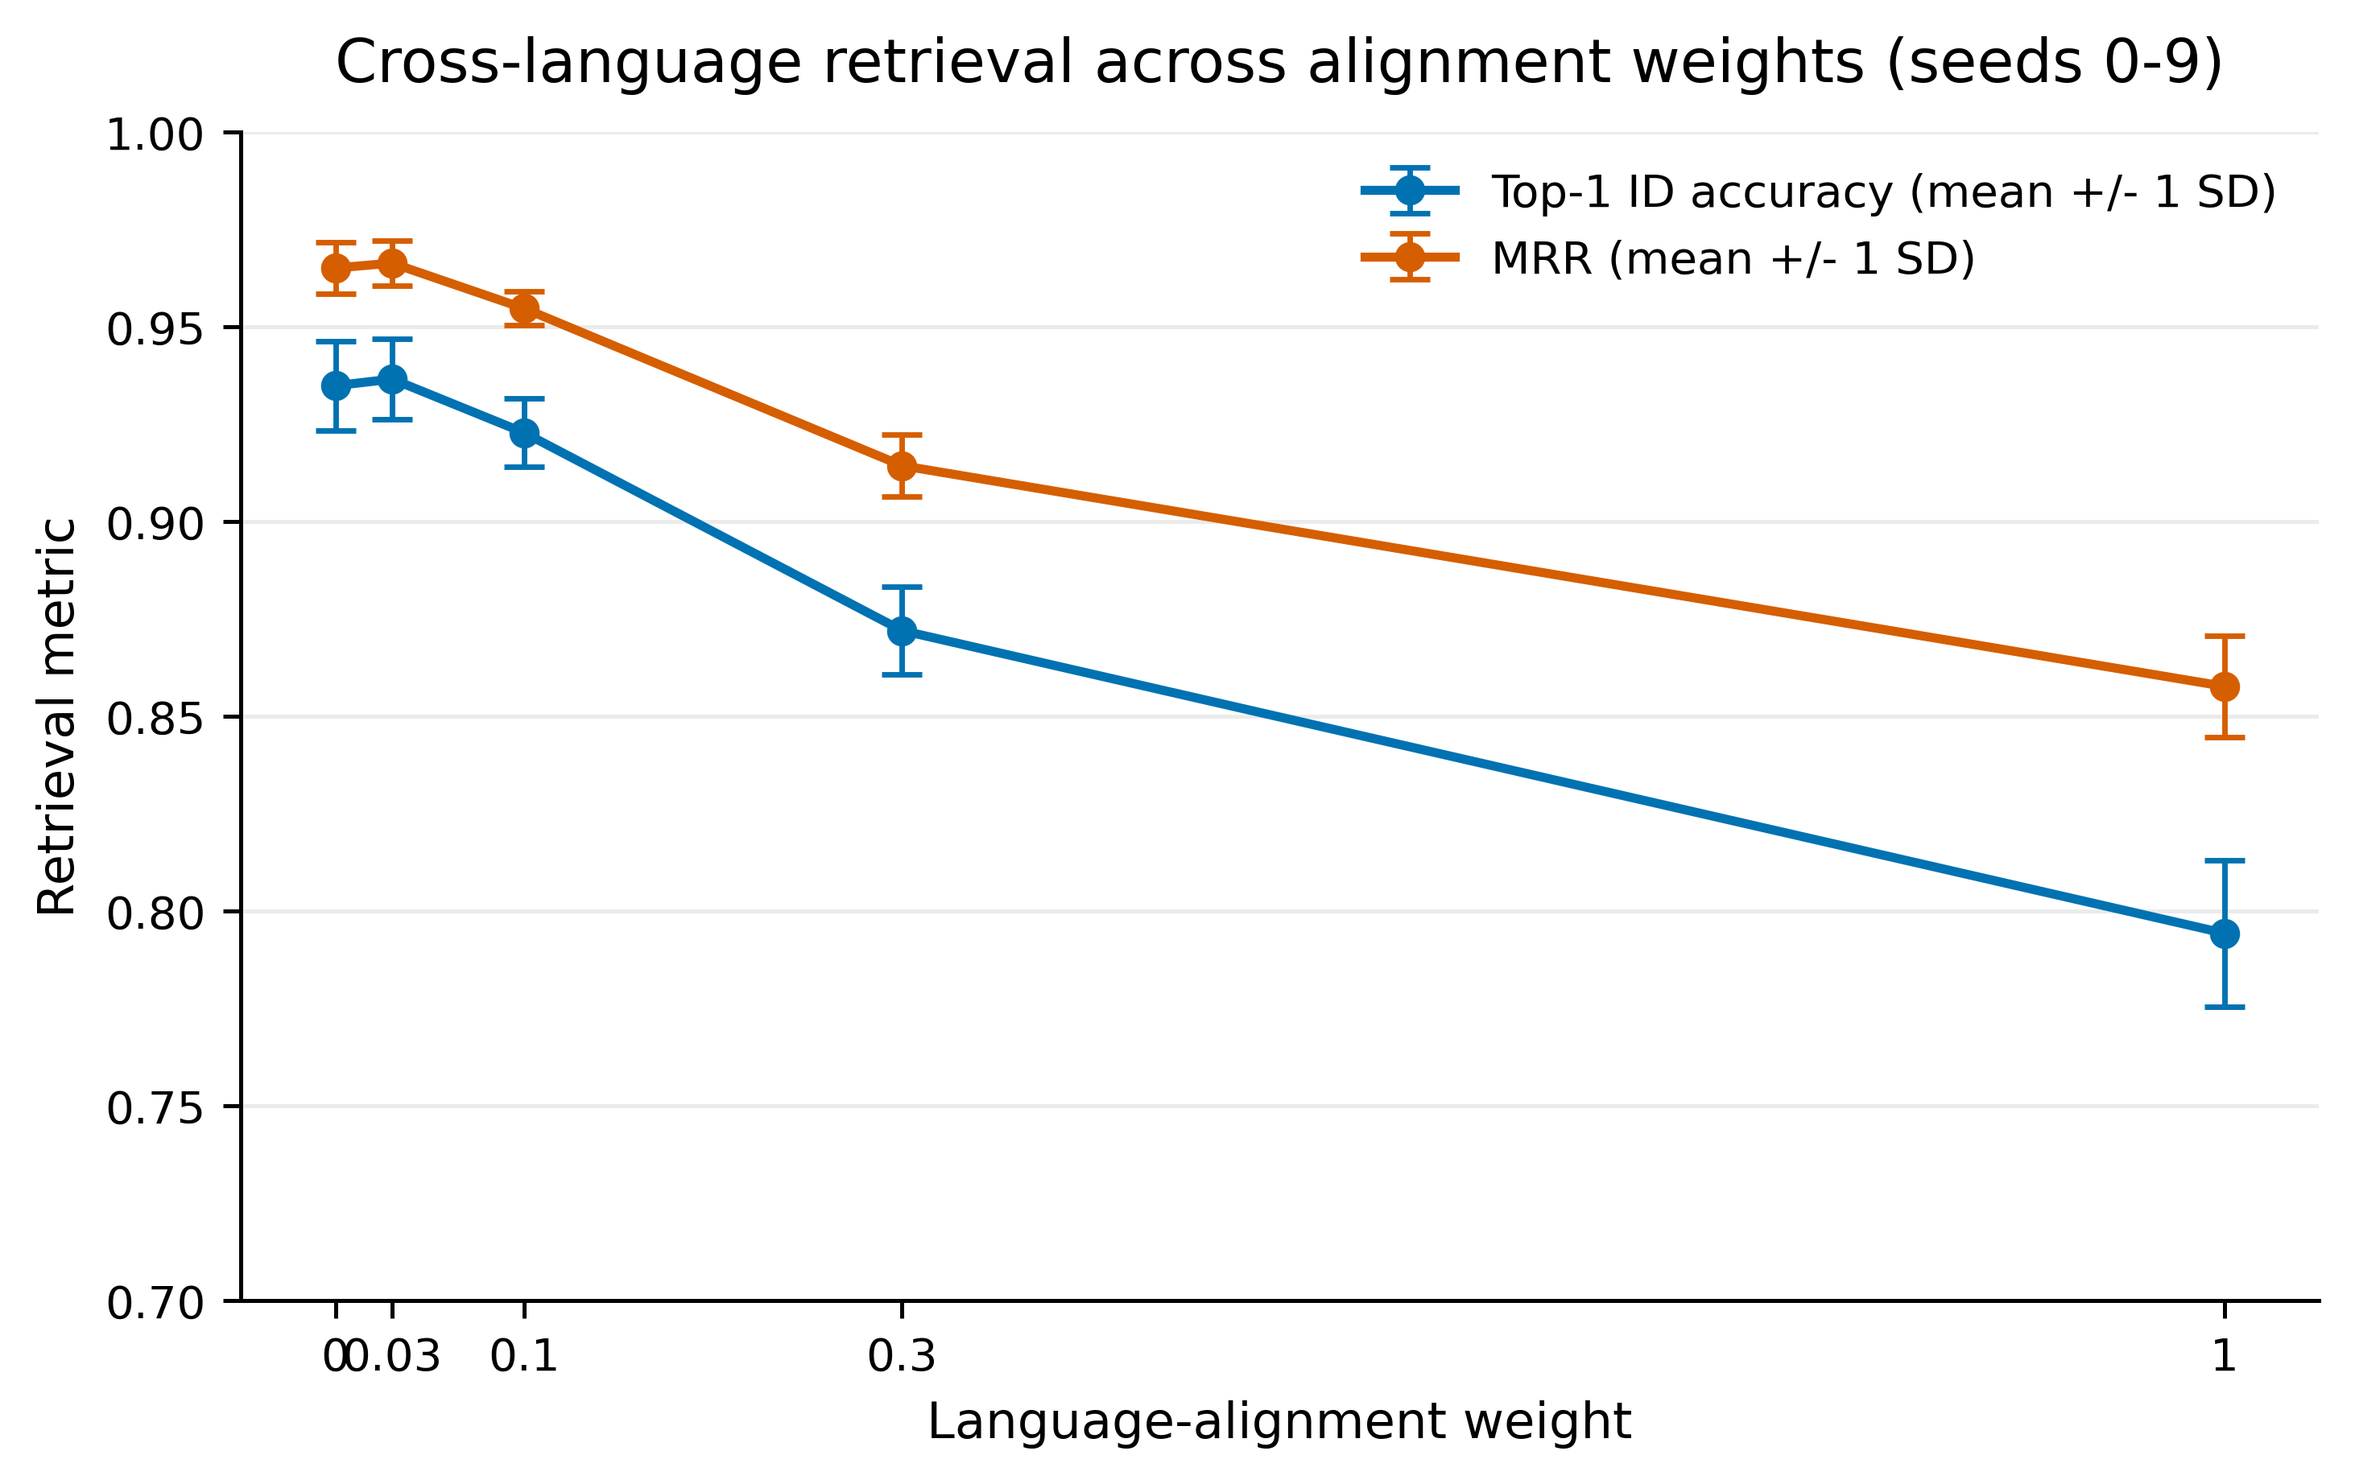
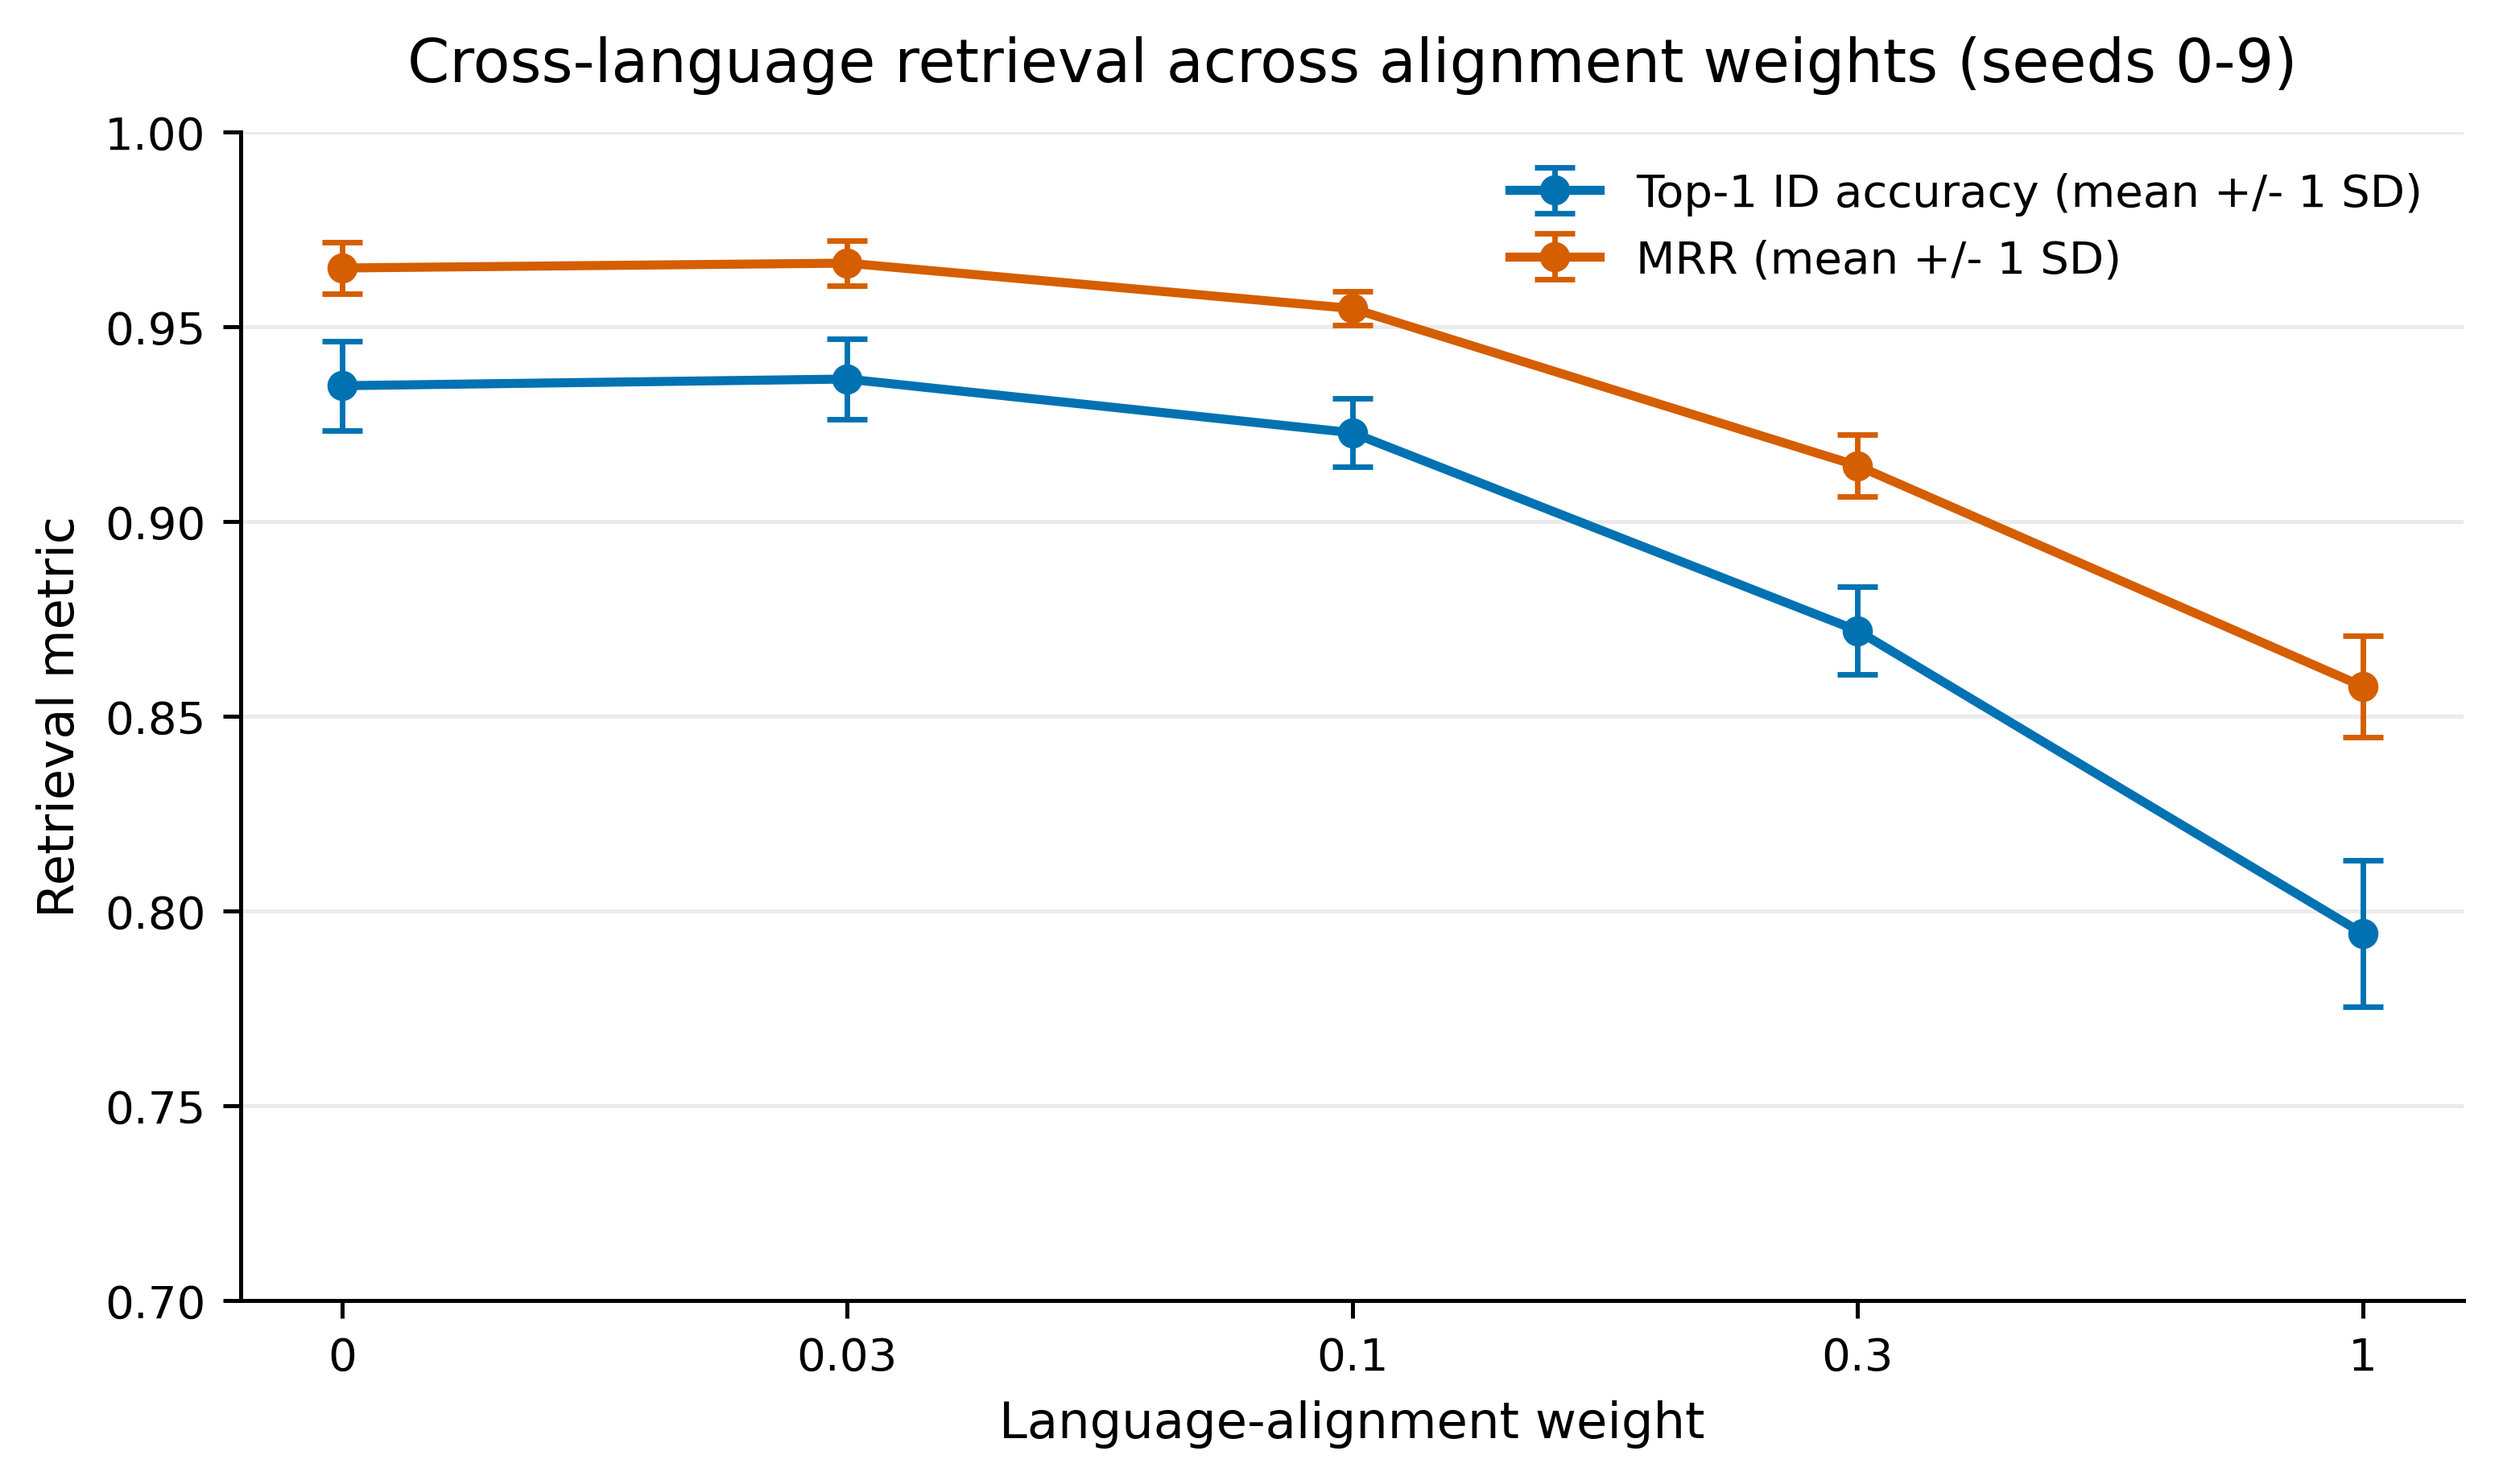
Finalize HAL preprint manuscript

diff --git a/tractatus_structure_latents/evaluation/plot_bilingual_alignment_sweep.py b/tractatus_structure_latents/evaluation/plot_bilingual_alignment_sweep.py
@@ -96,6 +96,22 @@ def xs(rows: list[dict]) -> list[float]:
     return [float(row["lambda_language_alignment"]) for row in rows]
 
 
+def x_positions(rows: list[dict]) -> list[int]:
+    return list(range(len(rows)))
+
+
+def lambda_tick_labels(rows: list[dict]) -> list[str]:
+    labels: list[str] = []
+    for value in xs(rows):
+        if value == 0:
+            labels.append("0")
+        elif value < 0.1:
+            labels.append(f"{value:.2f}")
+        else:
+            labels.append(f"{value:.2f}".rstrip("0").rstrip("."))
+    return labels
+
+
 def values(rows: list[dict], metric: str) -> list[float]:
     return [float(row[metric]) for row in rows]
 
@@ -111,7 +127,7 @@ def format_axes(title: str, ylabel: str, rows: list[dict]) -> None:
     plt.title(title, pad=10)
     plt.xlabel("Language-alignment weight")
     plt.ylabel(ylabel)
-    plt.xticks(xs(rows), [f"{x:.2g}" for x in xs(rows)])
+    plt.xticks(x_positions(rows), lambda_tick_labels(rows))
     plt.grid(axis="y", alpha=0.25, linewidth=0.8)
     plt.legend(loc="best")
     plt.tight_layout()
@@ -119,15 +135,15 @@ def format_axes(title: str, ylabel: str, rows: list[dict]) -> None:
 
 def plot_lines(rows: list[dict], out: Path, title: str, ylabel: str, metrics: Iterable[tuple[str, str]], ylim: tuple[float, float] | None = None) -> None:
     set_publication_style()
-    plt.figure(figsize=(6.6, 4.2))
-    lambdas = xs(rows)
+    plt.figure(figsize=(7.0, 4.2))
+    positions = x_positions(rows)
     for i, (metric, label) in enumerate(metrics):
         y = values(rows, metric)
         std = std_values(rows, metric)
         color = COLORS[i % len(COLORS)]
         if std is not None:
             plt.errorbar(
-                lambdas,
+                positions,
                 y,
                 yerr=std,
                 marker="o",
@@ -140,7 +156,7 @@ def plot_lines(rows: list[dict], out: Path, title: str, ylabel: str, metrics: It
                 label=f"{label} (mean +/- 1 SD)",
             )
         else:
-            plt.plot(lambdas, y, marker="o", markersize=5, linewidth=1.8, color=color, label=label)
+            plt.plot(positions, y, marker="o", markersize=5, linewidth=1.8, color=color, label=label)
     if ylim is not None:
         plt.ylim(*ylim)
     format_axes(title, ylabel, rows)
@@ -162,7 +178,7 @@ def hierarchy_std(row: dict) -> float:
 
 def plot_tradeoff(rows: list[dict], out: Path) -> None:
     set_publication_style()
-    plt.figure(figsize=(5.8, 4.6))
+    plt.figure(figsize=(6.2, 4.6))
     lambdas = xs(rows)
     top1 = values(rows, "cross_language_top1_id_accuracy")
     top1_std = std_values(rows, "cross_language_top1_id_accuracy") or [0.0 for _ in rows]
@@ -170,8 +186,18 @@ def plot_tradeoff(rows: list[dict], out: Path) -> None:
     hierarchy_spread = [hierarchy_std(row) for row in rows]
     scatter = plt.scatter(hierarchy, top1, c=lambdas, s=90, cmap="viridis", edgecolor="black", linewidth=0.6, zorder=3)
     plt.errorbar(hierarchy, top1, xerr=hierarchy_spread, yerr=top1_std, fmt="none", ecolor="0.35", alpha=0.65, capsize=4, elinewidth=1.1, zorder=2)
+    label_offsets = {
+        0.00: (-22, 7),
+        0.03: (6, 6),
+        0.10: (7, -9),
+        0.30: (7, 6),
+        1.00: (7, 7),
+    }
     for row, x_value, y_value in zip(rows, hierarchy, top1):
-        plt.annotate(f"{float(row['lambda_language_alignment']):.2g}", (x_value, y_value), xytext=(5, 5), textcoords="offset points", fontsize=8)
+        lambda_value = float(row["lambda_language_alignment"])
+        offset = label_offsets.get(round(lambda_value, 2), (5, 5))
+        label = "0" if lambda_value == 0 else f"{lambda_value:.2f}".rstrip("0").rstrip(".")
+        plt.annotate(label, (x_value, y_value), xytext=offset, textcoords="offset points", fontsize=8)
     plt.colorbar(scatter, label="Language-alignment weight")
     plt.title("Retrieval-structure tradeoff (seeds 0-9)", pad=10)
     plt.xlabel("Mean structure prediction accuracy")

diff --git a/tractatus_structure_latents/evaluation/generate_paper_figures.py b/tractatus_structure_latents/evaluation/generate_paper_figures.py
@@ -29,23 +29,23 @@ def generate_metric_figures(seed_sweep_dir: Path, out_dir: Path, summary_out: Pa
     plot_lines(
         rows,
         out_dir / "bilingual_alignment_retrieval_sweep.png",
-        "Bilingual Alignment Retrieval Sweep (seeds 0-9)",
-        "retrieval metric",
+        "Cross-language retrieval across alignment weights (seeds 0-9)",
+        "Retrieval metric",
         [
-            ("cross_language_top1_id_accuracy", "top-1 id accuracy"),
+            ("cross_language_top1_id_accuracy", "Top-1 ID accuracy"),
             ("cross_language_mrr", "MRR"),
         ],
-        ylim=(0.75, 1.0),
+        ylim=(0.7, 1.0),
     )
     plot_lines(
         rows,
         out_dir / "bilingual_structure_accuracy_sweep.png",
-        "Structure Prediction Across Alignment Strengths (seeds 0-9)",
-        "accuracy",
+        "Structure prediction across alignment weights (seeds 0-9)",
+        "Accuracy",
         [
-            ("parent_accuracy", "parent"),
-            ("depth_accuracy", "depth"),
-            ("next_accuracy", "next"),
+            ("parent_accuracy", "Parent"),
+            ("depth_accuracy", "Depth"),
+            ("next_accuracy", "Next"),
         ],
         ylim=(0.3, 1.0),
     )
@@ -53,11 +53,11 @@ def generate_metric_figures(seed_sweep_dir: Path, out_dir: Path, summary_out: Pa
     plot_lines(
         rows,
         out_dir / "bilingual_reconstruction_sweep.png",
-        "Bilingual Reconstruction Across Alignment Strengths (seeds 0-9)",
-        "loss / perplexity",
+        "Reconstruction across alignment weights (seeds 0-9)",
+        "Loss / perplexity",
         [
-            ("reconstruction_loss", "reconstruction loss"),
-            ("perplexity", "perplexity"),
+            ("reconstruction_loss", "Reconstruction loss"),
+            ("perplexity", "Perplexity"),
         ],
     )
     if summary_out is not None:
